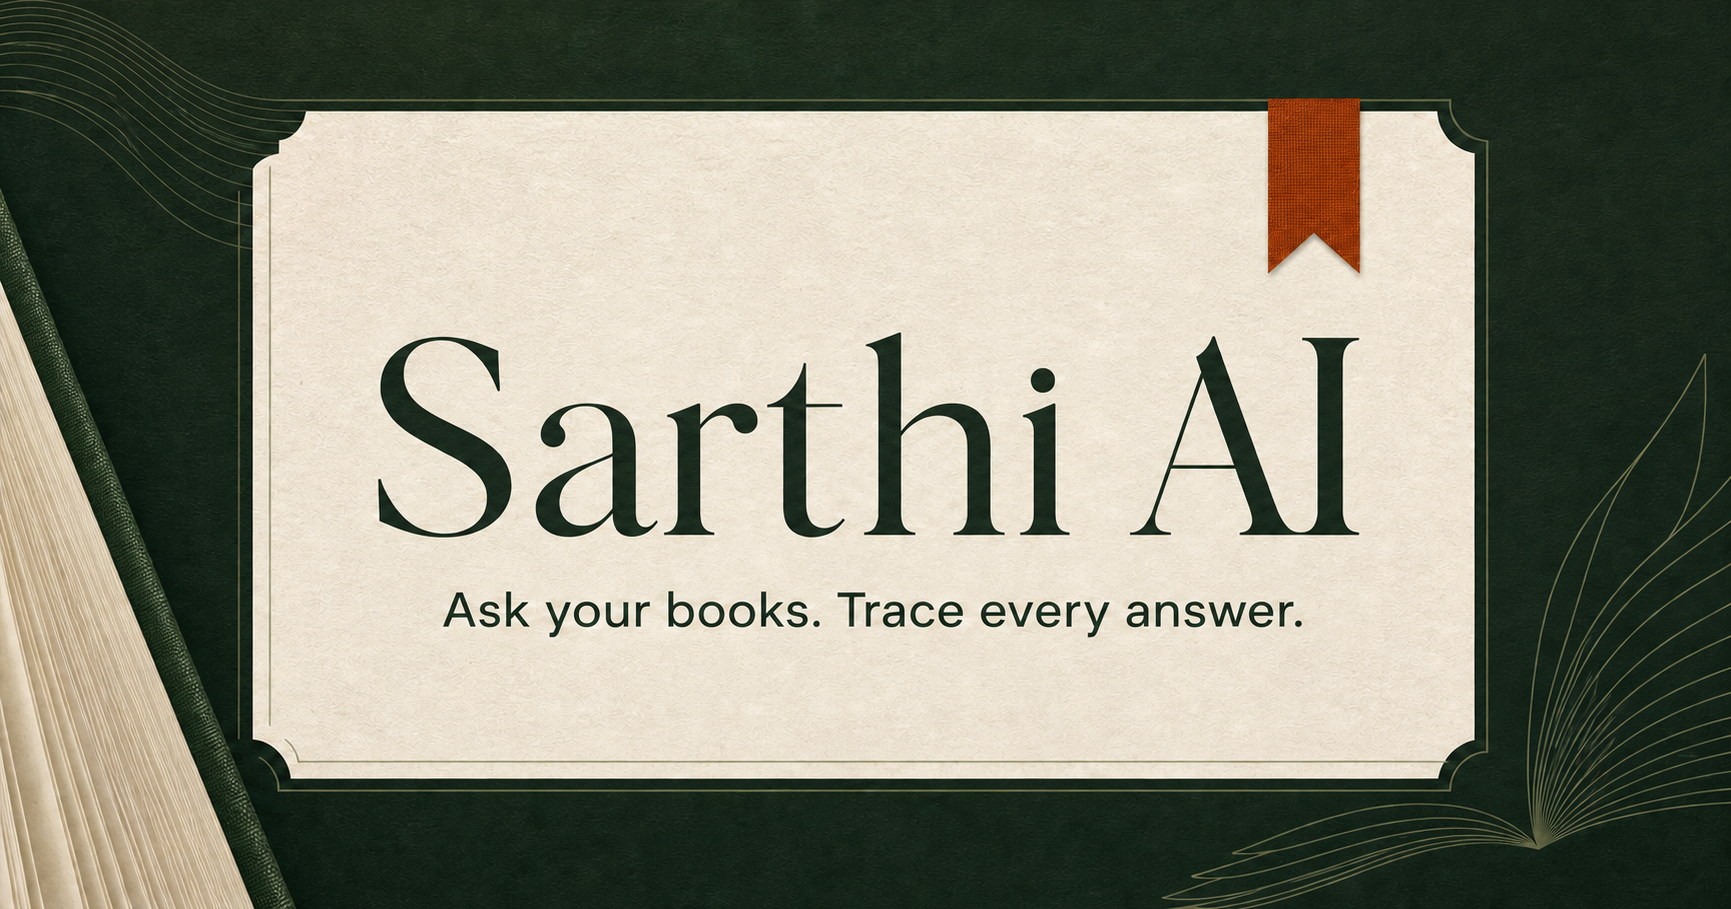
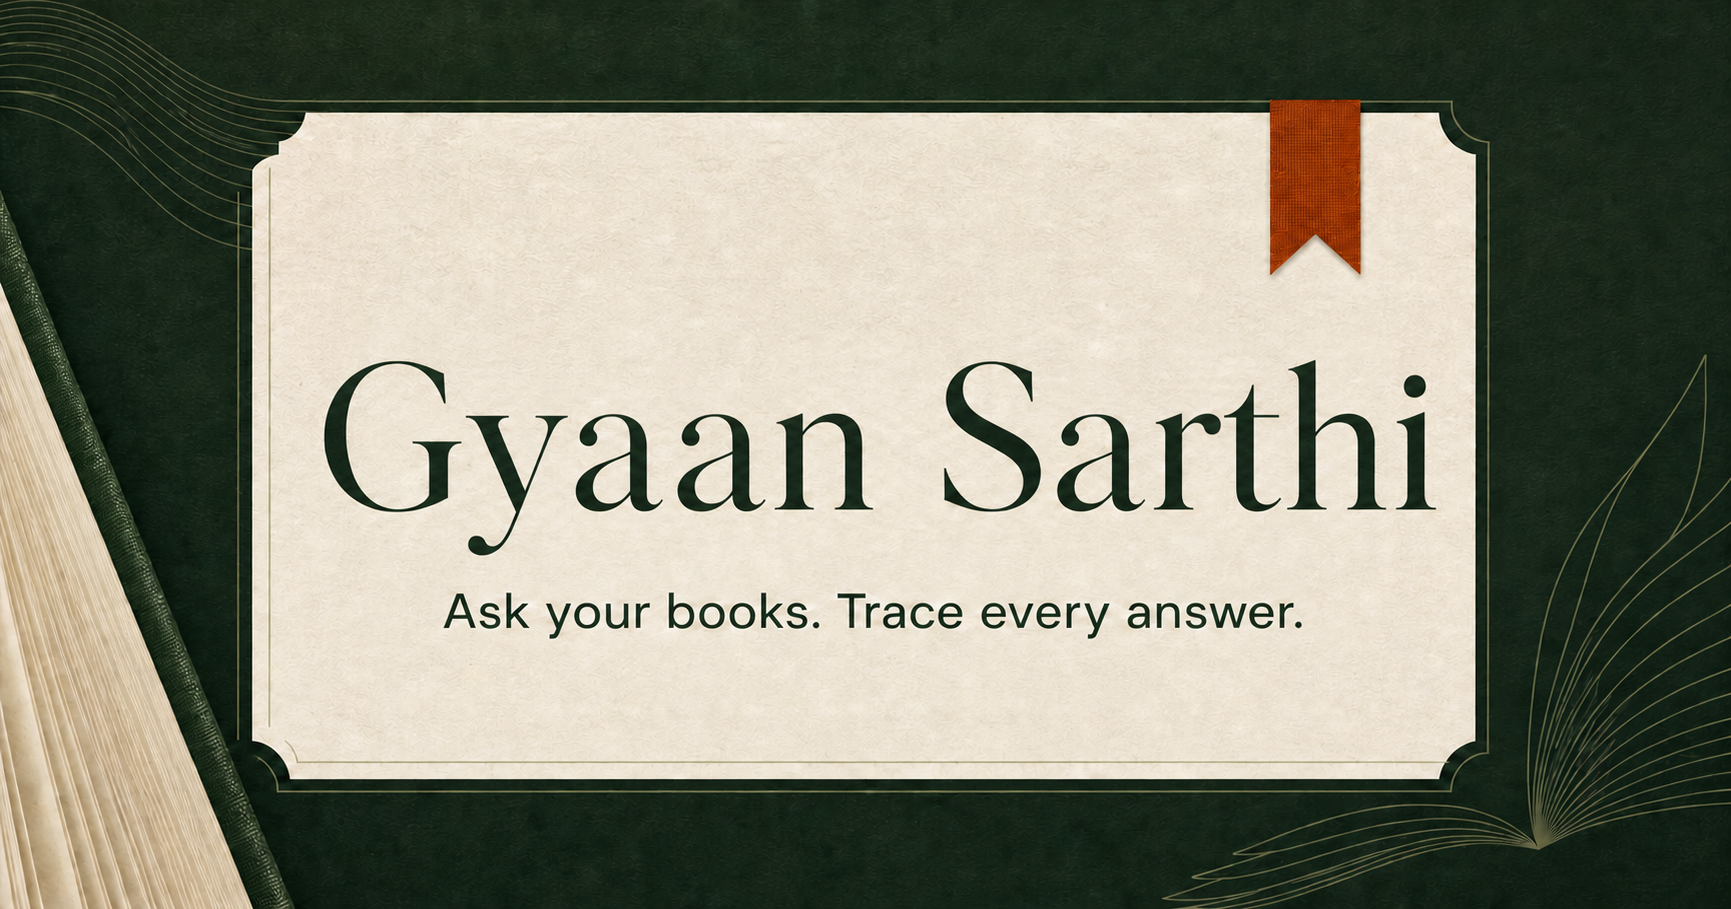
Rename app and migrate Firebase project

diff --git a/frontend/app/chat-workspace.tsx b/frontend/app/chat-workspace.tsx
@@ -817,7 +817,7 @@ export default function ChatWorkspace() {
         <div className="mobile-panel-head">
           <div className="brand">
             <span className="brand-mark">स</span>
-            <div><strong>Sarthi AI</strong><span>Grounded study companion</span></div>
+            <div><strong>Gyaan Sarthi</strong><span>Grounded study companion</span></div>
           </div>
           <button className="close-panel" type="button" onClick={() => setMobileLibraryOpen(false)} aria-label="Close library">×</button>
         </div>
@@ -984,7 +984,7 @@ export default function ChatWorkspace() {
                 <div className="answer-block">
                   <div className="assistant-badge">स</div>
                   <div className="answer-content">
-                    <div className="answer-heading"><strong>Sarthi AI</strong>{message.totalSeconds != null && <small>{message.totalSeconds.toFixed(1)}s · {message.sources?.length ?? 0} sources</small>}</div>
+                    <div className="answer-heading"><strong>Gyaan Sarthi</strong>{message.totalSeconds != null && <small>{message.totalSeconds.toFixed(1)}s · {message.sources?.length ?? 0} sources</small>}</div>
                     {message.pending && <LoadingAnswer web={message.answerBasis === 'web'} />}
                     {message.error && <div className="answer-error"><strong>I couldn’t answer that.</strong><p>{message.error}</p><button type="button" onClick={() => void ask(message.question, undefined, { useWeb: Boolean(message.requestedWeb), generateImage: Boolean(message.requestedImage) })}>Try again</button></div>}
                     {message.answer && <AnswerMarkdown text={message.answer} sources={message.sources} onCitationClick={(source) => openCitation(source as Source)} />}
@@ -1165,7 +1165,7 @@ export default function ChatWorkspace() {
             <span className="modal-icon">{pendingUpload.folderName ? 'DIR' : 'DOC'}</span>
             <p className="eyebrow">ADD TO YOUR LIBRARY</p>
             <h2 id="upload-title">Index this {pendingUpload.folderName ? 'folder' : 'document'}?</h2>
-            <p className="modal-copy">Sarthi AI will extract the text, create searchable passages, and preserve the selected folder path in your local library.</p>
+            <p className="modal-copy">Gyaan Sarthi will extract the text, create searchable passages, and preserve the selected folder path in your local library.</p>
             <div className="selected-file"><BookIcon /><span><strong>{pendingUpload.folderName || pendingUpload.files[0].name}</strong><small>{pendingUpload.folderName ? `${pendingUpload.files.length} supported top-level document${pendingUpload.files.length === 1 ? '' : 's'}` : `${(pendingUpload.files[0].size / 1024 / 1024).toFixed(1)} MB`}</small></span></div>
             {pendingUpload.folderName && (pendingUpload.skippedNested > 0 || pendingUpload.skippedUnsupported > 0 || pendingUpload.skippedOversize > 0) && (
               <p className="selection-note">Skipped: {pendingUpload.skippedNested} from nested folders, {pendingUpload.skippedUnsupported} unsupported, {pendingUpload.skippedOversize} over 500 MB.</p>

diff --git a/frontend/app/layout.tsx b/frontend/app/layout.tsx
@@ -14,16 +14,16 @@ const geistMono = Geist_Mono({
 
 export const metadata: Metadata = {
   metadataBase: new URL(process.env.NEXT_PUBLIC_SITE_URL || 'http://localhost:3000'),
-  title: 'Sarthi AI — Grounded study companion',
+  title: 'Gyaan Sarthi — Grounded study companion',
   description: 'Ask questions across indexed Hindi and English documents with answers you can trace back to the source.',
   openGraph: {
-    title: 'Sarthi AI — Grounded study companion',
+    title: 'Gyaan Sarthi — Grounded study companion',
     description: 'Ask your books. Trace every answer.',
-    images: [{ url: '/og.png', width: 1200, height: 630, alt: 'Sarthi AI — Ask your books. Trace every answer.' }],
+    images: [{ url: '/og.png', width: 1200, height: 630, alt: 'Gyaan Sarthi — Ask your books. Trace every answer.' }],
   },
   twitter: {
     card: 'summary_large_image',
-    title: 'Sarthi AI — Grounded study companion',
+    title: 'Gyaan Sarthi — Grounded study companion',
     description: 'Ask your books. Trace every answer.',
     images: ['/og.png'],
   },

diff --git a/frontend/app/auth-gate.tsx b/frontend/app/auth-gate.tsx
@@ -57,7 +57,7 @@ export default function AuthGate({ children }: { children: React.ReactNode }) {
     <main className="auth-screen">
       <section className="auth-card">
         <span className="brand-mark">स</span>
-        <p className="eyebrow">SARTHI AI</p>
+        <p className="eyebrow">GYAAN SARTHI</p>
         <h1>Your private study workspace</h1>
         <p>Sign in to access only your own documents, conversations, and generated visuals.</p>
         <button type="button" onClick={() => void signIn()} disabled={busy}>

diff --git a/dev.py b/dev.py
@@ -1,5 +1,5 @@
 #!/usr/bin/env python3
-"""Run the Sarthi AI backend and frontend as one reloadable dev application.
+"""Run the Gyaan Sarthi backend and frontend as one reloadable dev application.
 
 Python and frontend source changes are handled by Uvicorn's reloader and
 Vinext/Vite HMR. This supervisor handles the changes those native watchers do
@@ -247,7 +247,7 @@ def run(poll_interval: float = 1.0) -> int:
         backend.start()
         frontend.start()
         print(
-            "\n✅ Sarthi AI development servers are running\n"
+            "\n✅ Gyaan Sarthi development servers are running\n"
             f"   Frontend: http://localhost:{FRONTEND_PORT}\n"
             f"   Backend:  http://{HOST}:{BACKEND_PORT}\n"
             "   Press Ctrl+C to stop both.",
@@ -292,7 +292,7 @@ def run(poll_interval: float = 1.0) -> int:
 
 def main() -> int:
     parser = argparse.ArgumentParser(
-        description="Run the Sarthi AI backend and frontend with automatic reloads."
+        description="Run the Gyaan Sarthi backend and frontend with automatic reloads."
     )
     parser.add_argument(
         "--poll-interval",

diff --git a/api.py b/api.py
@@ -1,4 +1,4 @@
-"""FastAPI interface for the Sarthi AI RAG pipeline."""
+"""FastAPI interface for the Gyaan Sarthi RAG pipeline."""
 
 import os
 from functools import wraps
@@ -64,7 +64,7 @@ from rate_limit import (
 
 
 app = FastAPI(
-    title="Sarthi AI API",
+    title="Gyaan Sarthi API",
     description="Index PDF, TXT, Markdown, and YouTube sources, then ask grounded questions.",
     version="1.3.0",
 )
@@ -310,7 +310,7 @@ def _resolve_data_document(filename: str, owner_id: str | None = None) -> Path:
 @app.get("/")
 def root() -> dict:
     return {
-        "name": "Sarthi AI API",
+        "name": "Gyaan Sarthi API",
         "docs": "/docs",
         "health": "/health",
     }

diff --git a/app.py b/app.py
@@ -1,5 +1,5 @@
 """
-📚 Sarthi AI
+📚 Gyaan Sarthi
 ============
 Query documents and YouTube transcripts in Hindi or English using AI.
 Uses Google Gemini for retrieval and answers, with adaptive extraction that keeps
@@ -44,7 +44,7 @@ console = Console()
 def print_banner():
     """Print a nice welcome banner."""
     banner = """
-[bold cyan]📚 Sarthi AI[/bold cyan]
+[bold cyan]📚 Gyaan Sarthi[/bold cyan]
 [dim]Query documents and YouTube transcripts in Hindi or English[/dim]
 [dim]Gemini-powered retrieval · Adaptive text-layer + OCR routing[/dim]
     """

diff --git a/config.py b/config.py
@@ -1,5 +1,5 @@
 """
-Configuration for the Sarthi AI application.
+Configuration for the Gyaan Sarthi application.
 Loads environment variables and defines constants.
 """
 

diff --git a/FINDINGS.md b/FINDINGS.md
@@ -12,6 +12,16 @@ Last updated: 2026-08-30.
 
 ---
 
+## 8. Production identity boundary
+
+- 🟢 **Repo-verified (2026-08-31):** The API verifies Firebase ID tokens against
+  `FIREBASE_PROJECT_ID`, and the browser independently initializes Firebase from
+  `NEXT_PUBLIC_FIREBASE_*`. These values must name the same project. Changing the
+  Firebase/GCP project establishes a new UID namespace, so existing private-library
+  ownership cannot be carried across through configuration alone.
+
+---
+
 ## 7. Citation rendering contract
 
 - 🟢 **Repo-verified (2026-08-30):** Citation rendering depends on an exact

diff --git a/README.md b/README.md
@@ -1,10 +1,10 @@
-# 📚 Sarthi AI
+# 📚 Gyaan Sarthi
 
 **Ask your books. Trace every answer.**
 
-![Sarthi AI — Ask your books. Trace every answer.](frontend/public/og.png)
+![Gyaan Sarthi — Ask your books. Trace every answer.](frontend/public/og.png)
 
-Sarthi AI is a bilingual study assistant for PDFs, text files, Markdown, and
+Gyaan Sarthi is a bilingual study assistant for PDFs, text files, Markdown, and
 YouTube transcripts. It retrieves evidence before answering, links citations
 back to their exact page or timestamp, and can turn the same retrieved evidence
 into a generated study visual.

diff --git a/frontend/README.md b/frontend/README.md
@@ -1,6 +1,6 @@
-# Sarthi AI Frontend
+# Gyaan Sarthi Frontend
 
-The frontend is a Vinext/React interface for the Sarthi AI FastAPI service. It
+The frontend is a Vinext/React interface for the Gyaan Sarthi FastAPI service. It
 supports document and YouTube ingestion, source-linked chat, conversation
 history, prompt editing, image attachments, explicit web search, and generated
 study visuals.
